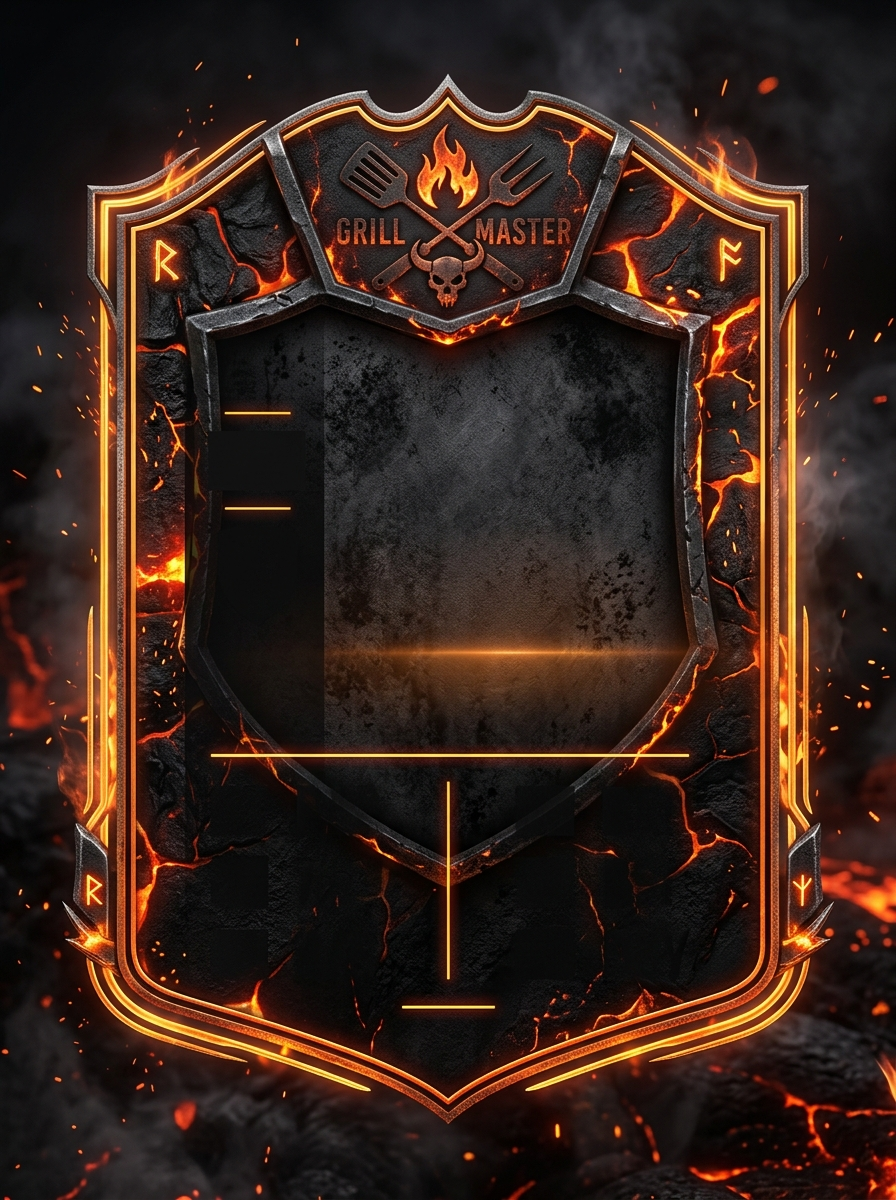
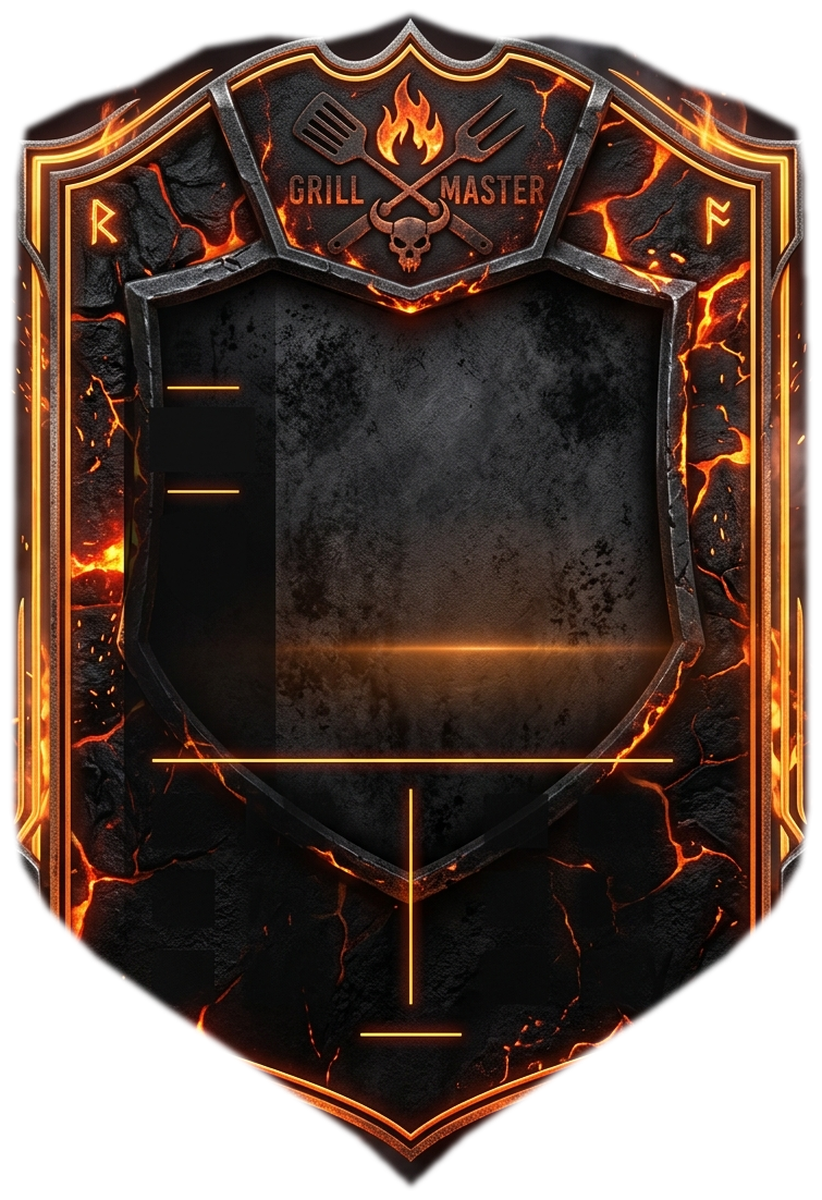
Freistellung und transparente Hintergruende fuer alle 5 neuen Vorlagen

diff --git a/index.html b/index.html
@@ -918,7 +918,7 @@
         name: '🔥 Grillmeister (Lava)',
         subtitle: 'Glut, Magma & Flammen',
         imageUrl: 'vorlagen/karte_feuer_lava.png',
-        ratio: '3 / 4',
+        ratio: '822 / 1200',
         borderGradient: 'from-orange-500 via-red-600 to-amber-500',
         innerBg: 'bg-black',
         accentColor: '#F97316',
@@ -929,7 +929,7 @@
         name: '🧊 Eisbrecher (Après-Ski)',
         subtitle: 'Gletscher, Frost & Shots',
         imageUrl: 'vorlagen/karte_eis_frost.png',
-        ratio: '3 / 4',
+        ratio: '732 / 1200',
         borderGradient: 'from-cyan-300 via-sky-600 to-blue-900',
         innerBg: 'bg-black',
         accentColor: '#38BDF8',
@@ -940,7 +940,7 @@
         name: '⚠ Absturz-Kandidat',
         subtitle: 'Panzertape, Risse & Pflaster',
         imageUrl: 'vorlagen/karte_pechvogel_riss.png',
-        ratio: '3 / 4',
+        ratio: '801 / 1200',
         borderGradient: 'from-yellow-400 via-amber-600 to-stone-900',
         innerBg: 'bg-black',
         accentColor: '#FACC15',
@@ -951,7 +951,7 @@
         name: '🪩 Neon-Nachtschicht',
         subtitle: 'Rave, Laser & Discokugel',
         imageUrl: 'vorlagen/karte_neon_rave.png',
-        ratio: '3 / 4',
+        ratio: '809 / 1200',
         borderGradient: 'from-fuchsia-500 via-purple-600 to-cyan-500',
         innerBg: 'bg-black',
         accentColor: '#22D3EE',
@@ -962,7 +962,7 @@
         name: '📜 Hütten-Veteran',
         subtitle: 'Leder, Messing & Siegel',
         imageUrl: 'vorlagen/karte_veteran_leder.png',
-        ratio: '3 / 4',
+        ratio: '794 / 1200',
         borderGradient: 'from-amber-600 via-amber-800 to-stone-900',
         innerBg: 'bg-black',
         accentColor: '#FBBF24',

diff --git a/guest.html b/guest.html
@@ -787,7 +787,7 @@
         name: '🔥 Grillmeister (Lava)',
         subtitle: 'Glut, Magma & Flammen',
         imageUrl: 'vorlagen/karte_feuer_lava.png',
-        ratio: '3 / 4',
+        ratio: '822 / 1200',
         badge: 'fire',
         accentColor: '#F97316'
       },
@@ -796,7 +796,7 @@
         name: '🧊 Eisbrecher (Après-Ski)',
         subtitle: 'Gletscher, Frost & Shots',
         imageUrl: 'vorlagen/karte_eis_frost.png',
-        ratio: '3 / 4',
+        ratio: '732 / 1200',
         badge: 'trophy',
         accentColor: '#38BDF8'
       },
@@ -805,7 +805,7 @@
         name: '⚠ Absturz-Kandidat',
         subtitle: 'Panzertape, Risse & Pflaster',
         imageUrl: 'vorlagen/karte_pechvogel_riss.png',
-        ratio: '3 / 4',
+        ratio: '801 / 1200',
         badge: 'beer',
         accentColor: '#FACC15'
       },
@@ -814,7 +814,7 @@
         name: '🪩 Neon-Nachtschicht',
         subtitle: 'Rave, Laser & Discokugel',
         imageUrl: 'vorlagen/karte_neon_rave.png',
-        ratio: '3 / 4',
+        ratio: '809 / 1200',
         badge: 'trophy',
         accentColor: '#22D3EE'
       },
@@ -823,7 +823,7 @@
         name: '📜 Hütten-Veteran',
         subtitle: 'Leder, Messing & Siegel',
         imageUrl: 'vorlagen/karte_veteran_leder.png',
-        ratio: '3 / 4',
+        ratio: '794 / 1200',
         badge: 'crown',
         accentColor: '#FBBF24'
       }
